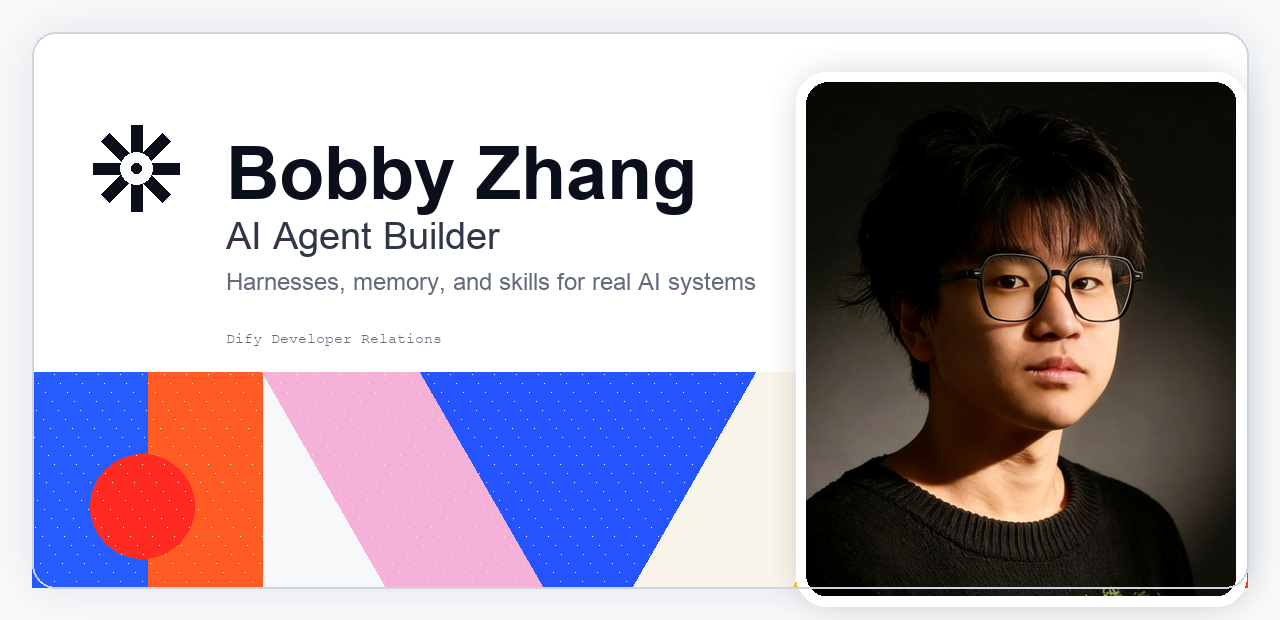
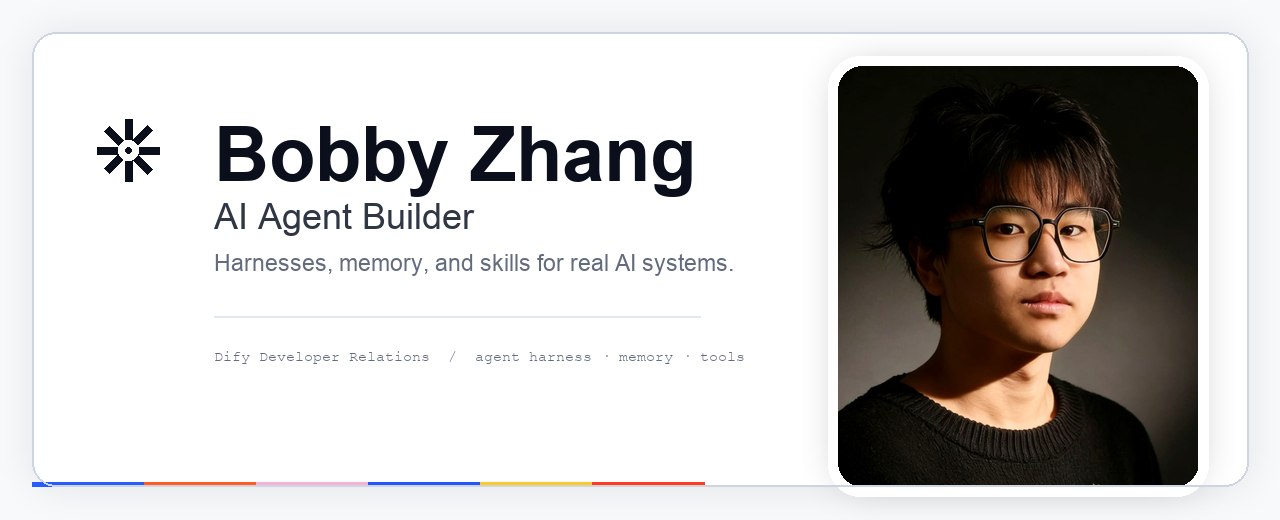
Make profile minimal

diff --git a/README.md b/README.md
@@ -5,14 +5,3 @@
 <p align="center">
   <samp>AI Agent Builder · Dify Developer Relations · Harness / Memory / Skills</samp>
 </p>
-
-<p align="center">
-  Building agent systems that remember, use tools, and stay understandable.
-</p>
-
-<p align="center">
-  <a href="https://github.com/langgenius/dify">Dify</a> ·
-  <a href="https://github.com/langgenius/dify-official-plugins">Plugins</a> ·
-  <a href="https://github.com/Gmasterzhangxinyang/jarvis-amber-protocol-hud">Agent Interface</a> ·
-  <a href="https://github.com/Gmasterzhangxinyang/RetinexMemory-for-Low-light-enhancement">Memory Research</a>
-</p>
